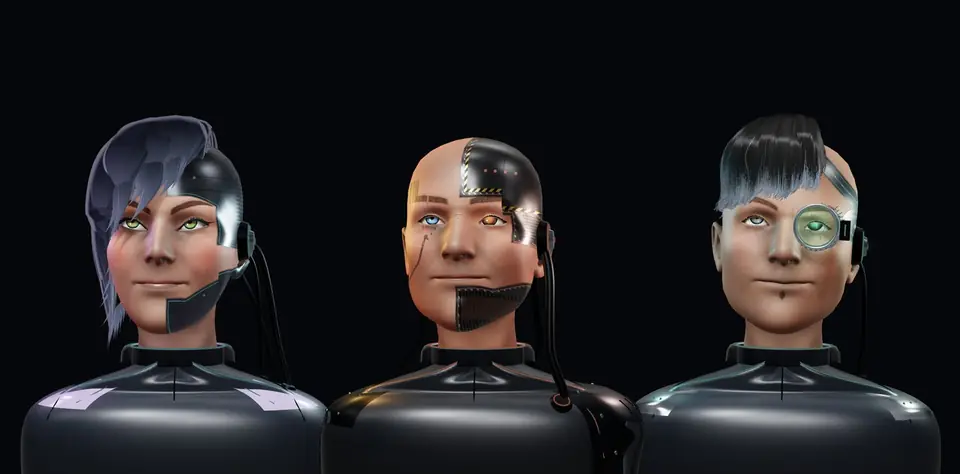
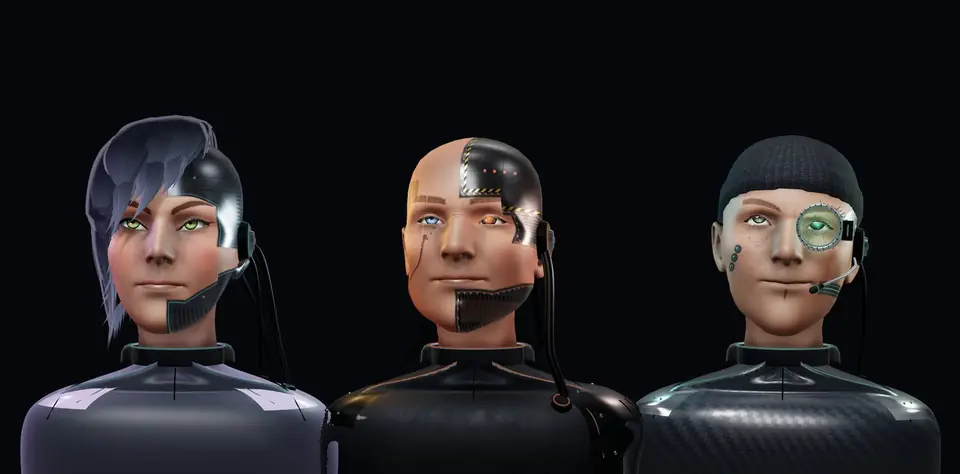
Głowy agentów: nowe kadry (Mark w czapce z mikrofonem, nowy Tony); twarze na panelu z tych samych plików
Kind: feat

Claude-Session: https://claude.ai/code/session_015p4bPy7PsCuY2Wmrw8WrzN

diff --git a/tools/odswiez/README.md b/tools/odswiez/README.md
@@ -14,7 +14,10 @@ public/img/zmiany/) i aktualizuje plan `PLAN.md`. Bez zmian w żadnym repo: nic 
 
 Zasady: plik podmieniany tylko, gdy kadr widocznie się zmienił (bez zmian = stary plik zostaje, repo nie puchnie);
 tylko dane przykładowe; `npm run build` (check.mjs) musi przejść. Wynik idzie od razu na main (GitHub Pages),
-rano jedna linia w podsumowaniu. Miniatury i plakaty (img/mini, img/plakat) odtwarza `node tools/miniatury.mjs`.
+rano jedna linia w podsumowaniu.
+Twarze agentów na my.gitcloud.pl (gitcloud-ai static/heads) robi się z tych samych `img/agenci/*.webp`
+(`gitcloud-ai/tools/heads-from-site`, wycięta twarz 240²): wrapper woła go po wdrożeniu nocy i po jej cofnięciu —
+jedno źródło, strona i panel zawsze mają te same głowy. Miniatury i plakaty (img/mini, img/plakat) odtwarza `node tools/miniatury.mjs`.
 
 ## Ochrona i zasięg (decyzje #749–#752)
 - **OCR** (`tools/odswiez/ocr.py`, tesseract pol+eng+rus): każdy nowy obraz i film nocy jest czytany; słowo z FORBIDDEN
